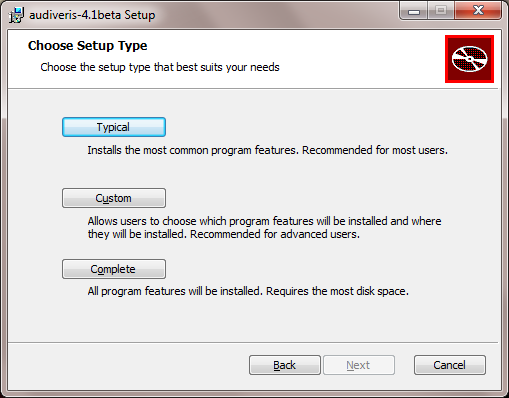
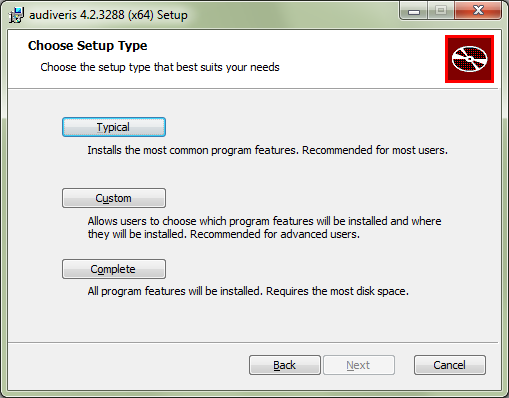
Documentation: Clarification of Linux installation, update of Windows installation images

diff --git a/www/docs/manual/handbook.html b/www/docs/manual/handbook.html
@@ -130,8 +130,10 @@
                         <a href="http://kenai.com/projects/audiveris/downloads">
                             download area</a> of Audiveris project.
                         The files are named respectively
-                        <code>audiveris-V.v.revision-x86.msi</code> (for 32-bit) and
-                        <code>audiveris-V.v.revision-x64.msi</code> (for 64-bit).
+                        <code>audiveris-<i>V.v.r</i>-x86.msi</code> (for 32-bit)
+                        and
+                        <code>audiveris-<i>V.v.r</i>-x64.msi</code> (for 64-bit)
+                        where <q>V.v.r</q> stands for Audiveris version+revision.
                     </p>
                     <p>The Windows installer will take care of all needed 
                         components:
@@ -153,6 +155,12 @@
                         Launch the installation by a double-click on the 
                         downloaded installer file.
                         The installer presents a welcome screen.
+                    </p>
+                    <p>
+                        <b>Note:</b> If an older Audiveris version is already
+                        installed, you'll get a warning dialog asking you to
+                        uninstall it via Windows configuration panel prior to 
+                        installing the new version.
                     </p>
 
                     <br class="clear"/>
@@ -181,7 +189,7 @@
                     <p>
                         If you select the custom setup, you have the ability to choose
                         the installation location and decide on the installation of
-                        optional components (Examples, Plugins, Training material).
+                        optional components.
                     </p>
                     <p>
                         Note that you can always change your mind later and add or
@@ -189,7 +197,7 @@
                         simply relaunch the installer program, it will prompt you for
                         your new decisions.
                     </p>
-                    
+
                     <div id="java-snippet" class="snippet clear">
                         <img class="right"
                              title="Java runtime" alt="java-requirement" 
@@ -233,7 +241,7 @@
                         Due to impossibility to support the sheer number of Linux
                         distributions and different binary formats used, we 
                         provide fully automated installation packages only for 
-                        Ubuntu. 
+                        <b>Ubuntu</b>.
                     </p>
                     <p>
                         For all other distributions we provide generic 
@@ -245,51 +253,59 @@
                         <a href="#generic-linux">Manual installation</a>
                         section
                     </p>
-                    <h4 id="linux-debian"> Installing Audiveris on Ubuntu 
-                        12.04 and above
+                    <h4 id="linux-debian">
+                        Full installation on Ubuntu 12.04 and above
                     </h4>
-                    <p> The Ubuntu 12.04 packages are available on the 
-                        <a href="http://kenai.com/projects/audiveris/downloads">
-                            download area</a> of Audiveris project and matches 
-                        the <code>audiveris-V.v-ubuntu-arch.deb</code>
-                        naming schema, where <q>V.v</q> denotes Audiveris'
-                        version and <q>arch</q> the hardware architecture.
-                        Pick up the proper file, matching your hardware 
-                        architecture (<code>i386</code> for Intel 32bit or 
-                        <code>amd64</code> for 64bit), download it, double click
-                        on its icon and follow the instructions to install 
-                        Audiveris.
-                    </p>
                     <p>
-                        <b>IMPORTANT:</b> our Ubuntu packages won't work on versions
-                        prior to 12.04 or architectures other than Intel 
-                        i386/amd64!
+                        <b>Note:</b> Our Ubuntu packages won't work on 
+                        versions prior to 12.04 or architectures other than 
+                        Intel i386/amd64.
                     </p>                    
-
-                    <h4 id="linux-generic">Installing Audiveris application</h4>
-                    <p>
-                        Generic RPM packages suitable for installation on OpenSUSE, Fedora,
-                        Madriva and others are available on the <a href="http://kenai.com/projects/audiveris/downloads">
-                            download area</a> of Audiveris project and matches the <code>Audiveris-V.v-arch.rpm</code>
-                        naming schema, where <q>V.v</q> denotes Audiveris' version
-                        und <q>arch</q> - hardware architecture. Pick up the proper
-                        file, matching your hardware architecture (<code>i386</code> for Intel 32bit or
-                        'x86_64' for 64bit), download it, double click on its icon and
-                        follow the instructions to install Audiveris.
+                    <p> The <b>Ubuntu 12.04</b> packages are available on the 
+                        <a href="http://kenai.com/projects/audiveris/downloads">
+                            download area</a> of Audiveris project and match the
+                        <code>audiveris-<i>V.v.r</i>-ubuntu-<i>arch</i>.deb</code>
+                        naming schema, where <q>V.v.r</q> denotes Audiveris
+                        version+revision and <q>arch</q> the hardware 
+                        architecture (<code>i386</code> for Intel 32bit or 
+                        <code>amd64</code> for 64bit).
                     </p>
-                    <p><b>Note:</b> please ensure that Tesseract libraries are already
-                        installed before trying to install these packages.
+
+                    <h4 id="linux-generic">Generic Audiveris package</h4>
+                    <p><b>Note:</b>
+                        This <q>generic</q> Audiveris application package is 
+                        intended to install on any Linux the Audiveris 
+                        application, music font and desktop integration.
+                        However, this package requires that <b>Tesseract</b>
+                        shared libraries are already present or the installation
+                        will fail.
+                        So, refer to section <a href="#manual-ocr">Installing 
+                            Tesseract OCR</a> to install Tesseract beforehand.
+                    </p>
+                    <p>
+                        Generic RPM packages suitable for installation on
+                        <b>OpenSUSE</b>, <b>Fedora</b>, <b>Madriva</b> and 
+                        others are available on the 
+                        <a href="http://kenai.com/projects/audiveris/downloads">
+                            download area</a> of Audiveris project.
+                        The packages match the 
+                        <code>Audiveris-<i>V.v.r</i>-<i>arch</i>.rpm</code>
+                        naming schema, where <q>V.v.r</q> denotes Audiveris
+                        version+revision and <q>arch</q> the hardware 
+                        architecture (<code>i386</code> for Intel 32bit or
+                        <code>x86_64</code> for 64bit).
                     </p>
 
                     <h4 id="linux-others">
-                        Other Linux than Ubuntu, OpenSUSE or Fedora</h4>
+                        Other targets than Ubuntu, OpenSUSE or Fedora</h4>
                     <p>
                         The basic steps will be the same as given in the
                         <a href="#linux-manual">Manual installation</a> section,
                         though the real commands will vary heavily depending on your
                         distribution and hardware architecture.
-                        Please ask the <a href="http://www.leptonica.com/download.html">Audiveris
-                            forum</a> for detailed instructions.
+                        You can post requests on 
+                        <a href="http://www.leptonica.com/download.html">Audiveris
+                            forum</a> if you need additional instructions.
                     </p>                    
 
                     <h4 id="linux-manual">Manual Installation</h4>
@@ -337,14 +353,14 @@
                             </p>
                             <ol>
                                 <li>in your browser, go to <a href="http://software.opensuse.org/package/liblept3">
-                                        Leptonica download page</a> , select "OpenSUSE 12.2" then "Show
-                                    unstable packages". Click on the proper package from "Lazy_Kent"
+                                        Leptonica download page</a> , select <q>OpenSUSE 12.2</q> then <q>Show
+                                        unstable packages</q>. Click on the proper package from <q>Lazy_Kent</q>
                                     according to your hardware architecture (32 or 64 bit) and follow
                                     the instructions to install Leptonica.
                                 </li>
                                 <li>in your browser, go to <a href="http://software.opensuse.org/package/libtesseract3">
-                                        Tesseract download page</a> , select "OpenSUSE 12.2" then "Show
-                                    unstable packages". Click on the proper package from "Lazy_Kent"
+                                        Tesseract download page</a> , select <q>OpenSUSE 12.2</q> then <q>Show
+                                        unstable packages</q>. Click on the proper package from <q>Lazy_Kent</q>
                                     (version 3.02.02!) according to your hardware architecture (32 or
                                     64 bit) and follow the instructions to install Tesseract' shared
                                     libraries.
@@ -378,7 +394,7 @@
                                 <dd>
                                     <p>
                                         Tesseract OCR depends on the image processing library called
-                                        "Leptonica", which, in turn, depends on several image formats like
+                                        <b>Leptonica</b>, which, in turn, depends on several image formats like
                                         JPEG, PNG, TIFF and GIF. These formats are usually supported by
                                         external libraries. You need to install the development versions for
                                         each of those libraries:
@@ -410,7 +426,8 @@ sudo make install</pre>
                                             from here:
                                             http://tesseract-ocr.googlecode.com/files/tesseract-ocr-3.02.02.tar.gz</li>
                                         <li>Unpack it to an easily accessible directory, for example
-                                            '/home/user/Documents/'. You should see "tesseract-ocr" folder in
+                                            <code>/home/user/Documents/</code>. 
+                                            You should see <code>tesseract-ocr</code> folder in
                                             your working directory.
                                         </li>
                                         <li>Start up the terminal and change to that source directory: 
@@ -428,7 +445,7 @@ sudo make install</pre>
                                     in this section are only valid for the Fedora 17 distribution!</u>
                                 </p>
                                 <p style="margin-top: -4px;" role="link">Fedora, as a Red-Hat<code></code>-derived
-                                    distribution, doesn't include "/usr/local/lib" in its library search
+                                    distribution, doesn't include <code>/usr/local/lib</code> in its library search
                                     path. Therefore, it's necessary to add that path so that Tesseract
                                     shared libraries can be be found by Audiveris application. Please
                                     proceed as follows:</p>

diff --git a/plugins/finale-notepad.js b/plugins/finale-notepad.js
@@ -5,7 +5,7 @@
 /* -------------------------------------------------------------------------- */
 
 /* Variable to modify according to your environment */
-var pathToExec = "P:/prog/Finale NotePad 2011/Finale NotePad.exe";
+var pathToExec = "C:/Program Files (x86)/Finale NotePad 2012/Finale NotePad.exe";
 
 /* Title for menu item */
 pluginTitle = 'Finale Notepad';
